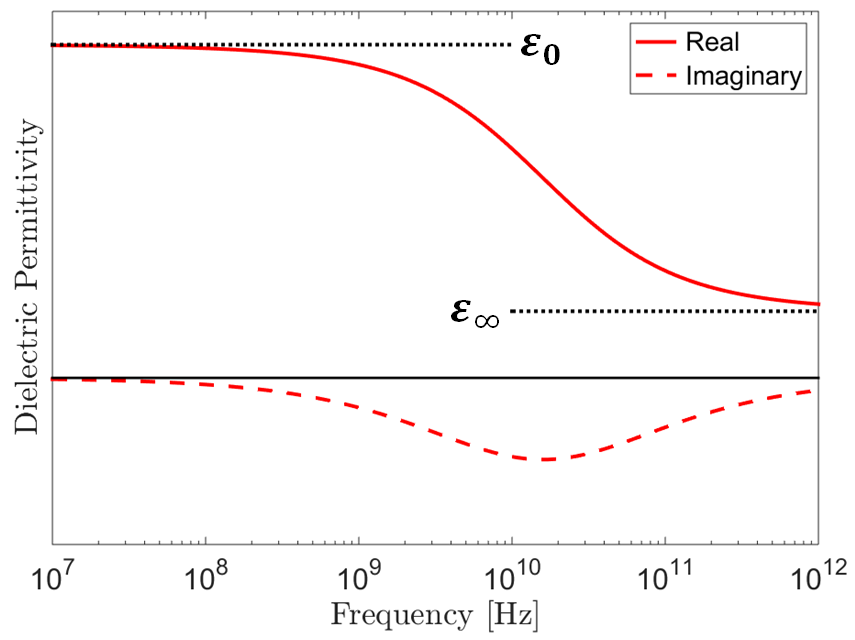
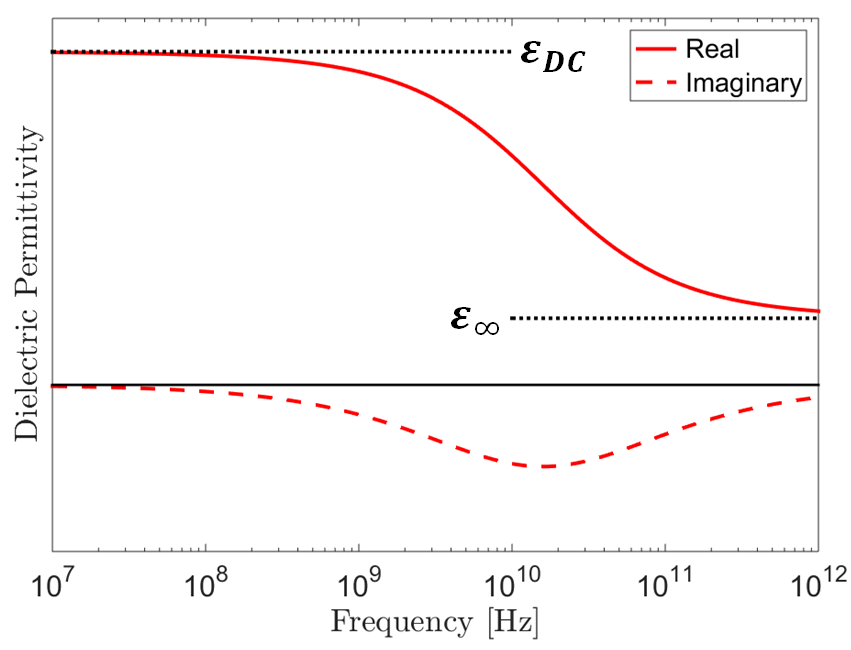
Dielectric Permittivity

diff --git a/content/foundations/physical_properties/physical_properties_dielectric_permittivity.rst b/content/foundations/physical_properties/physical_properties_dielectric_permittivity.rst
@@ -52,7 +52,7 @@ Therefore, the dielectric permittivity must be expressed as a frequency-dependen
 
 where :math:`i = \sqrt{-1}`.
 The real component of the dielectric permittivity represents energy stored through electrical polarization whereas the imaginary component represents a measure of energy loss.
-This aspect of the real and imaginary dielectric permittivity will be discussed in more detail when learning about ground-penetrating radar (link).
+The significance of the real and imaginary components of the dielectric permittivity will be discussed in more detail when learning about ground-penetrating radar (link).
 
 
 
@@ -60,19 +60,19 @@ This aspect of the real and imaginary dielectric permittivity will be discussed 
 	:align: right
 	:scale: 40%
 
-A widely used model for describing dielectric permittivities relevant to ground-penetrating radar is the Cole-Cole model:
+A widely used model for describing the dielectric permittivity as it relates to ground-penetrating radar is the Cole-Cole model:
 
 .. math::
-	\varepsilon (\omega) = \varepsilon_\infty + \frac{\varepsilon_0 - \varepsilon_\infty}{1 + (i\omega \tau)^\alpha}
+	\varepsilon (\omega) = \varepsilon_\infty + \frac{\varepsilon_{DC} - \varepsilon_\infty}{1 + (i\omega \tau)^\alpha}
 
 
-where :math:`\varepsilon_0` is the DC or zero-frequency permittivity, and :math:`\varepsilon_\infty` represents a limit as frequency goes to infinity.
-Parameters :math:`\tau` and :math:`\alpha` define the span of frequencies in which the dielectric permittivity is frequency-dependent.
-As we can see from the plot:
+where :math:`\varepsilon_{DC}` is the DC or zero-frequency permittivity, and :math:`\varepsilon_\infty` represents a limit as frequency goes to infinity.
+Parameters :math:`\tau` and :math:`\alpha` define the span of frequencies in which the dielectric permittivity changes with respect to frequency.
+As we can see from this model:
 
-- Rrequency-dependence only occurs over a finite span of frequencies.
-- In general, the magnitude of the dielectric permittivity decreases with respect to an increase in frequency.
-- At suffiiently low frequencies, the dielectric permittivity is constant and real-valued.
+- Frequency-dependence only occurs over a finite span of frequencies.
+- The magnitude of the dielectric permittivity decreases with respect to an increase in frequency.
+- At sufficiently low frequencies, the dielectric permittivity is constant and real-valued.
 
 
 Parameters used to define the dielectric properties of materials and their associated units are tabulated below.
@@ -96,7 +96,7 @@ Parameters used to define the dielectric properties of materials and their assoc
 +-------------------------+-----------------------------------+------------------+
 | Imaginary Permittivity  | :math:`\varepsilon^{\prime\prime}`| F/m              |
 +-------------------------+-----------------------------------+------------------+
-| DC Permittivity         | :math:`\varepsilon_0`             | F/m              |
+| DC Permittivity         | :math:`\varepsilon_{DC}`          | F/m              |
 +-------------------------+-----------------------------------+------------------+
 | Infinite Permittivity   | :math:`\varepsilon_\infty`        | F/m              |
 +-------------------------+-----------------------------------+------------------+
@@ -121,14 +121,14 @@ Electrical Permittivity for Common Rocks
 A table with the approximate relative permittivities for common rock, soils and other materials is shown below.
 In order to interpret this table correctly, it is important to understand the following:
 
-- For hard rocks and dry soils, the dielectric permittivity is effectively constant and equal to the DC permittivity :math:`\varepsilon_0` (Butler).
+- For hard rocks and dry soils, the dielectric permittivity is effectively constant and equal to the DC permittivity :math:`\varepsilon_{DC}` (Butler).
 - The frequency-dependence of water-saturated sedimentary rocks and soils is negligible below ~100 MHz and small below ~1 GHz (Kaatze, 1989; Meissner and Wentz, 2004).
 
 As a result, the dielectric properties of rocks are generally given as real-valued.
 These constant values accurately describe the dielectric properties of most relevant materials below ~100 MHz and offer a reasonable approximation below ~1 GHz.
 By examining the table, several things can be inferred:
 
-- Water has a much higher dielectric permittivity than most rock forming minerals.
+- Water generally has a much higher dielectric permittivity than rock forming minerals.
 - Water saturated rocks have much larger dielectric permittivities than dry rocks.
 - Sediments generally have larger dielectric permittivities than hard rocks.
 
@@ -143,23 +143,23 @@ By examining the table, several things can be inferred:
 +-----------------------------+---------------------------------------------+
 | Water (sea)                 | 81                                          |
 +-----------------------------+---------------------------------------------+
-| Snow                        | 1.4-3                                       |
+| Snow                        | 1.4 - 3                                     |
 +-----------------------------+---------------------------------------------+
-| Ice                         | 3-8                                         |
+| Ice                         | 3 - 8                                       |
 +-----------------------------+---------------------------------------------+
-| Permafrost                  | 1-8                                         |
+| Permafrost                  | 1 - 8                                       |
 +-----------------------------+---------------------------------------------+
 | **Sediments**               |                                             |
 +-----------------------------+---------------------------------------------+
-| Sand (dry)                  | 3-6                                         |
+| Sand (dry)                  | 3 - 6                                       |
 +-----------------------------+---------------------------------------------+
-| Sand (wet)                  | 25-30                                       |
+| Sand (wet)                  | 25 - 30                                     |
 +-----------------------------+---------------------------------------------+
 | Silt (wet)                  | 10                                          |
 +-----------------------------+---------------------------------------------+
 | Clay Soil (dry)             | 3                                           |
 +-----------------------------+---------------------------------------------+
-| Clay (wet)                  | 8-15                                        |
+| Clay (wet)                  | 8 - 15                                      |
 +-----------------------------+---------------------------------------------+
 | Marsh                       | 12                                          |
 +-----------------------------+---------------------------------------------+
@@ -169,11 +169,11 @@ By examining the table, several things can be inferred:
 +-----------------------------+---------------------------------------------+
 | **Rocks**                   |                                             |
 +-----------------------------+---------------------------------------------+
-| Granite                     | 5-8                                         |
+| Granite                     | 5 - 8                                       |
 +-----------------------------+---------------------------------------------+
-| Limestone                   | 7-9                                         |
+| Limestone                   | 7 - 9                                       |
 +-----------------------------+---------------------------------------------+
-| Dolomite                    | 6.8-8                                       |
+| Dolomite                    | 6.8 - 8                                     |
 +-----------------------------+---------------------------------------------+
 | Basalt (wet)                | 8                                           |
 +-----------------------------+---------------------------------------------+
@@ -181,7 +181,17 @@ By examining the table, several things can be inferred:
 +-----------------------------+---------------------------------------------+
 | Sandstone (wet)             | 6                                           |
 +-----------------------------+---------------------------------------------+
-| Coal                        | 4-5                                         |
+| Coal                        | 4 - 5                                       |
++-----------------------------+---------------------------------------------+
+| **Minerals**                |                                             |
++-----------------------------+---------------------------------------------+
+| Quartz                      | 4.2 - 5                                     |
++-----------------------------+---------------------------------------------+
+| Orthoclase Feldspar         | 4.5 - 5.8                                   |
++-----------------------------+---------------------------------------------+
+| Kaolinite (clay)            | 9.5 - 13.7                                  |
++-----------------------------+---------------------------------------------+
+| Calcite                     | 7.8 - 8.5                                   |
 +-----------------------------+---------------------------------------------+
 | **Contaminents**            |                                             |
 +-----------------------------+---------------------------------------------+
@@ -216,10 +226,28 @@ Factors Impacting Electric Permittivity
 
 
 
-**Water**:
+**Porosity and Water Saturation**:
 
+By far the most important factors in determining a rock's dielectric permittivity are porosity and water saturation.
+Air has a relative permittivity of 1 whereas common rock forming minerals have much higher relative permittivities.
+This means that for dry samples, the rock's bulk dielectric permittivity decreases as the porosity increases.
 
+When rock samples are saturated with water, their dielectric permittivities can increase drastically.
+This is because water has a relative permittivity of 81, which is much higher than the relative permittivities of rock forming minerals.
+As a result, the bulk dielectric permittivity of a rock increases as pore water saturation increases.
 
+The relationship between a rock's bulk dielectric permittivity, porosity and water saturation is given by:
+
+.. math::
+	\sqrt{\varepsilon} = (1 - \phi ) \sqrt{\varepsilon_m} + \phi S_w \sqrt{\varepsilon_w} + \phi (1-S_w) \sqrt{\varepsilon_a}
+
+where
+
+- :math:`0 \leq \phi \leq 1` is the porosity
+- :math:`0 \leq S_w \leq 1` is the factional volume of the pore space saturated by water.
+- :math:`\varepsilon_m` is the dielectric permittivity of rock forming minerals.
+- :math:`\varepsilon_a` is the dielectric permittivity of air (equal to free-space).
+- :math:`\varepsilon_w` is the dielectric permittivity of water.
 
 
 xxxxxxxxxxxxxxxxxxxxxxxxxxxxxxxxxxxxxxxxxxxxx
